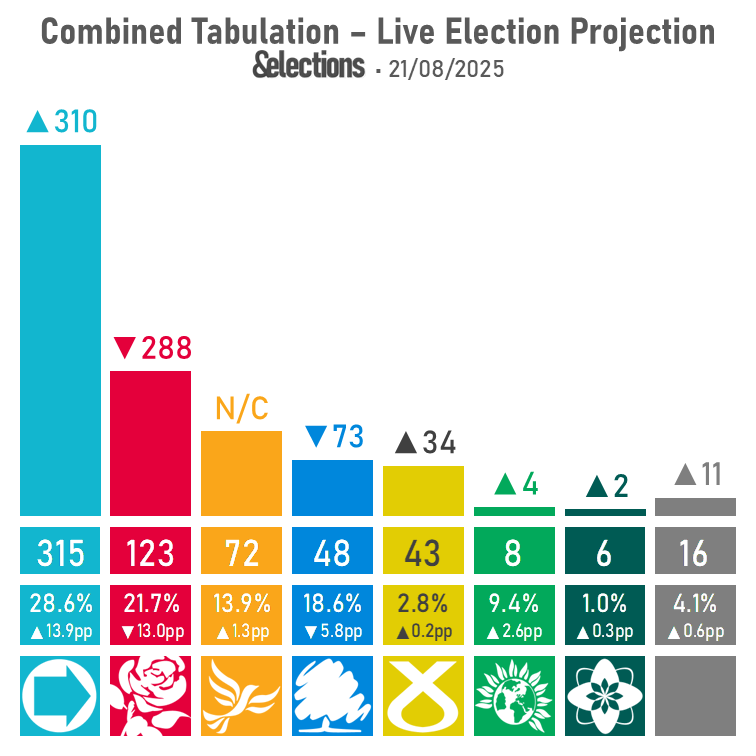
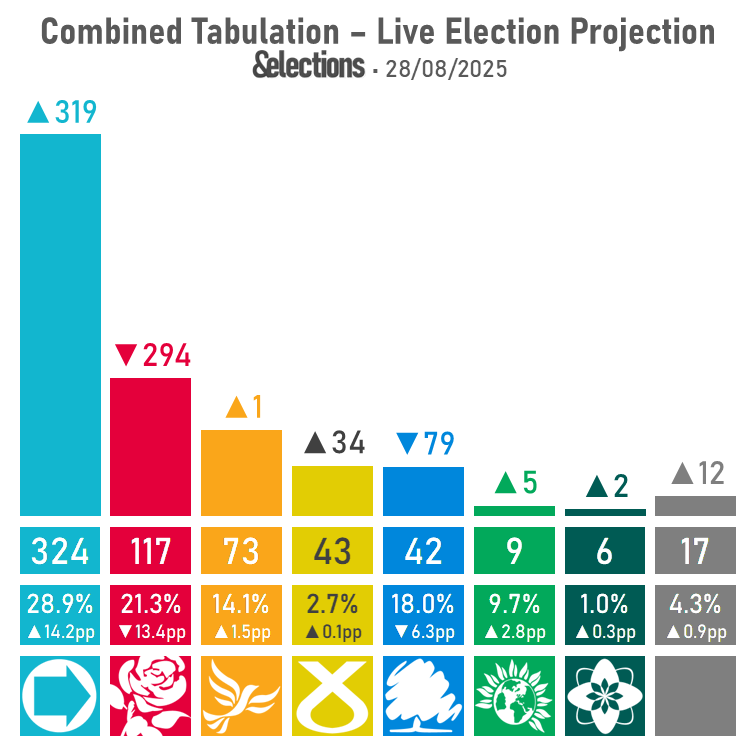
25-08-28 projection
- Added 28/08/25 projection files
- Added projection update Substack post.

diff --git a/index.html b/index.html
@@ -357,6 +357,10 @@
                 </div>
                 <div class="datacontainer" id="data-blog">
                     <div class="blogtitles-container">
+                        <a href="https://andelections.substack.com/p/280825-uk-projection-labours-worst" title="Open article in new tab" target="_blank" rel="noopener noreferrer">
+                            <h2>28/08/25 UK Projection: Labour's Worst Week Ever</h2>
+                            <p>28 Aug 2025 • An election held today would yield fewer seats for Labour than the Tories won last year, whilst Reform are within touching distance of a majority again.</p>
+                        </a>
                         <a href="https://andelections.substack.com/p/220825-senedd-projection-plaid-and" title="Open article in new tab" target="_blank" rel="noopener noreferrer">
                             <h2>22/08/25 Senedd Projection: Plaid & Reform Vying for the Most Seats</h2>
                             <p>22 Aug 2025 • &Elections first projection for next year's Senedd election has Plaid Cymru and Reform neck-and-neck, ending Labour's stronghold on the legislature.</p>
